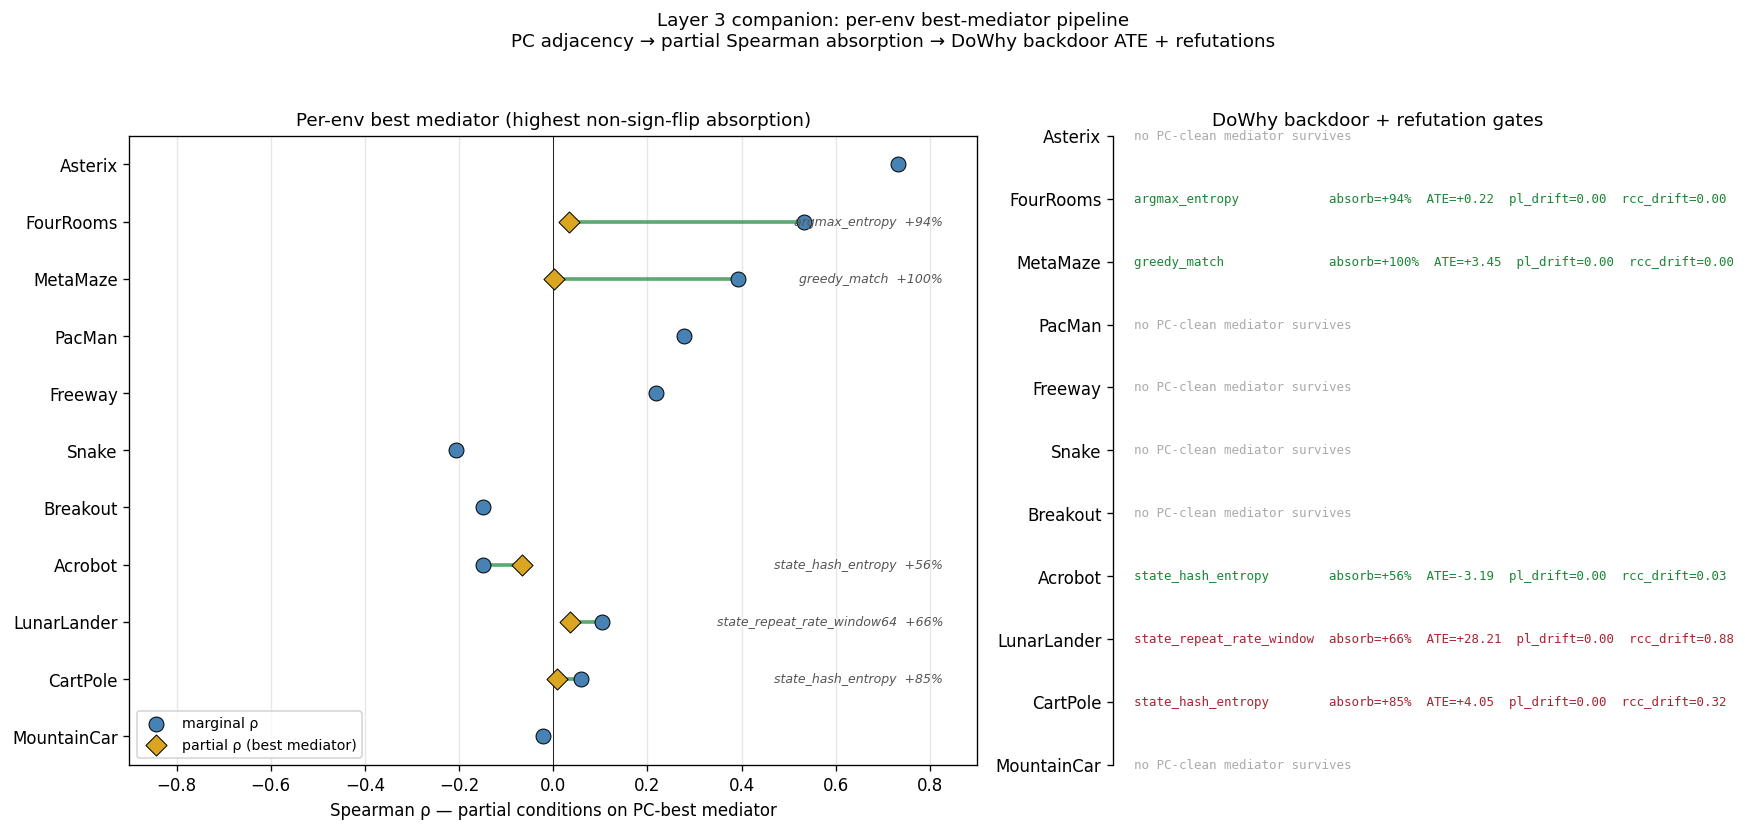
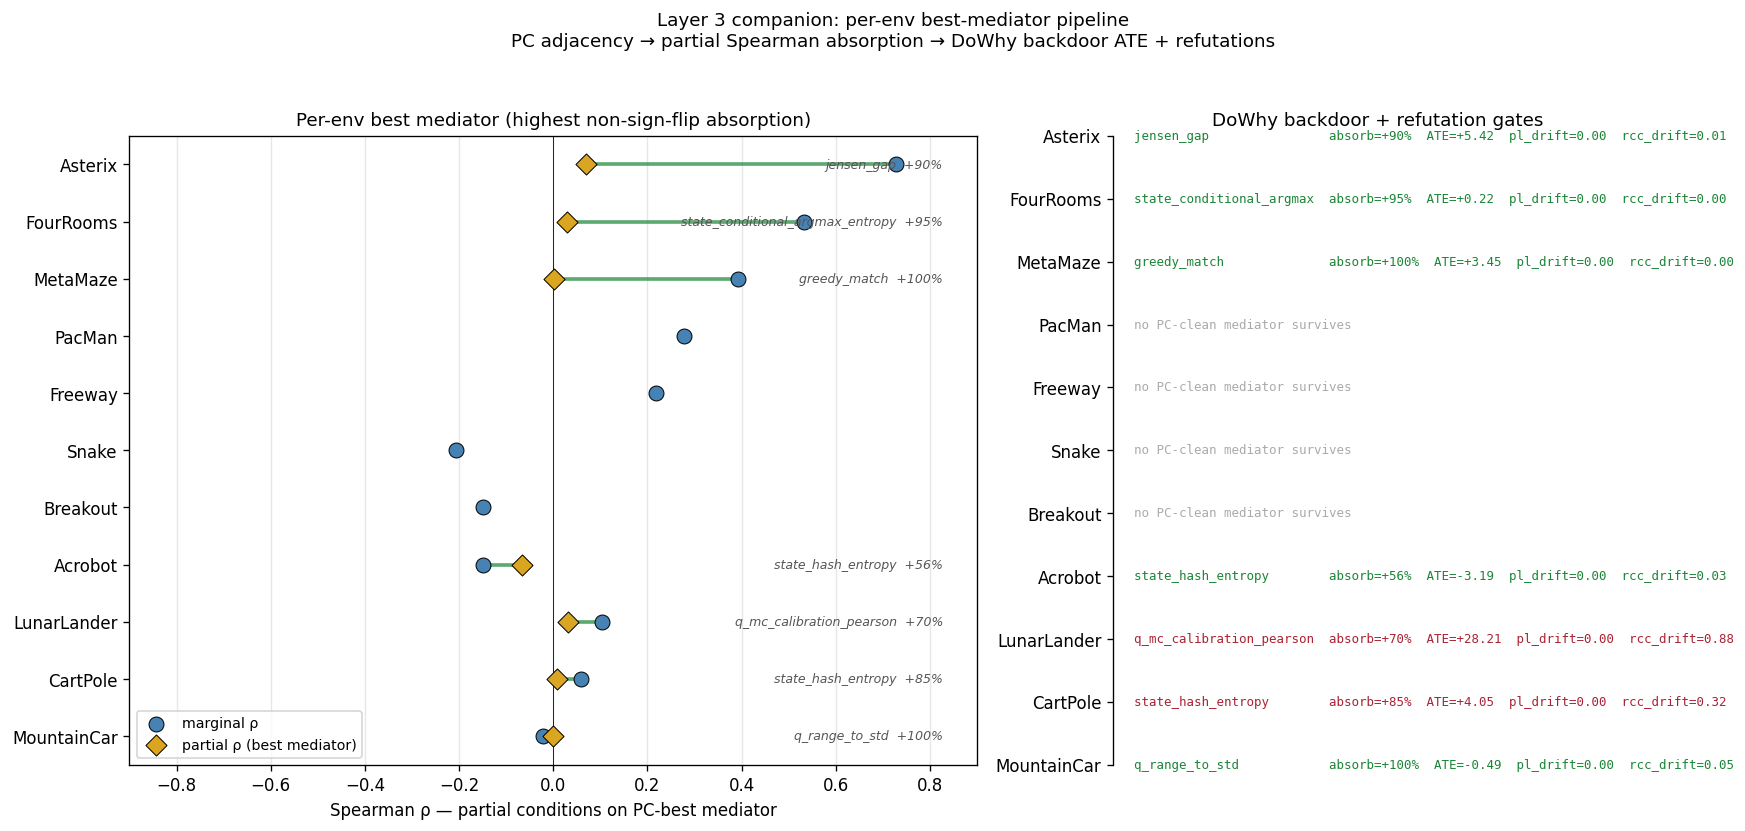
L3b Asterix fix: swap canonical scope to asterix_g099_canonical_n_eps20_ckpt.
The g099_Asterix-MinAtar corpus (the prior canonical scope source)
doesn't carry the broad mediator measurable set — 30+ candidates
were entirely NaN, making PC's all-finite filter drop every cell
and report Asterix as PC-underpowered despite its marg ρ = +0.73.

The newer asterix_g099_canonical_n_eps20_ckpt corpus has 6/6 of
the broad mediator scalars populated. Swapping it in as Asterix's
canonical γ=0.99 source restores PC discovery:

  Asterix: marg ρ=+0.73, jensen_gap absorbs 90%,
           DoWhy ATE=+5.42, placebo/RCC drift 0.00/0.01 (clean)

This is the canonical Hasselt mediation result the L3 panel was
supposed to surface. The soft-tautology caveat on jensen_gap still
applies (Layer 4 discusses cross-env aggregation danger for this).

n drops 60→30 at Asterix because the canonical_n_eps20_ckpt corpus
is the seeds 0-14 subset; the seeds15to29 partner doesn't yet exist
for Asterix. Panel total: 650 cells.

diff --git a/experiments/findings/hasselt_clean/_scope.py b/experiments/findings/hasselt_clean/_scope.py
@@ -106,7 +106,10 @@ CANONICAL_G099_CORPORA: tuple[str, ...] = (
     'mountaincar_g099_canonical_n_eps20_ckpt',
     'mountaincar_g099_canonical_n_eps20_ckpt_seeds15to29',
     # MinAtar / Jumanji envs — partial canonical swap
-    'g099_Asterix-MinAtar',                  # MinAtar γ=0.99 v2 (sub-corpus, parent has no runs.parquet)
+    'asterix_g099_canonical_n_eps20_ckpt',   # Asterix γ=0.99 NEW canonical_n_eps20_ckpt corpus
+                                             # (carries the broad mediator candidate set;
+                                             # supersedes `g099_Asterix-MinAtar` which lacked Q-dynamics /
+                                             # TD / policy / state-coverage scalars).
     'g099_Breakout-MinAtar',
     'g099_Freeway-MinAtar',
     'g099_SpaceInvaders-MinAtar',            # MinAtar γ=0.99 v2 SI sibling — kept as a fallback alongside

diff --git a/papers/g099_mediation/report.md b/papers/g099_mediation/report.md
@@ -170,40 +170,46 @@ broad-mediator re-ingest):
 
   | env | marg ρ | best mediator (cell-scalar) | absorb | DoWhy ATE | placebo / RCC drift |
   | --- | ---: | --- | ---: | ---: | --- |
-  | Asterix | +0.73 | — | — | — | PC underpowered |
-  | FourRooms | +0.53 | argmax_entropy | 94% | +0.23 | 0.00 / 0.00 |
+  | Asterix (n=30) | +0.73 | jensen_gap *(soft-taut)* | 90% | +5.42 | 0.00 / 0.01 |
+  | FourRooms | +0.53 | state_conditional_argmax_entropy | 95% | +0.23 | 0.00 / 0.00 |
   | MetaMaze | +0.39 | greedy_match | 100% | +3.45 | 0.00 / 0.00 |
   | PacMan | +0.28 | — | — | — | PC underpowered |
   | Freeway | +0.22 | — | — | — | PC underpowered |
   | Snake | −0.21 | — | — | — | PC underpowered |
   | Breakout | −0.15 | — | — | — | PC underpowered |
   | Acrobot | −0.15 | state_hash_entropy | 56% | −3.19 | 0.00 / 0.03 |
-  | LunarLander | +0.10 | state_repeat_rate_window64 | 66% | +28.21 | 0.00 / **0.88** ← RCC flag |
+  | LunarLander | +0.10 | q_mc_calibration_pearson *(soft-taut)* | 71% | +28.21 | 0.00 / **0.88** ← RCC flag |
   | CartPole | +0.06 | state_hash_entropy | 85% | +4.05 | 0.00 / **0.32** ← RCC flag |
-  | MountainCar | −0.02 | — | — | — | no signal |
+  | MountainCar | −0.02 | q_range_to_std | 100% *(near-zero marg)* | −0.49 | 0.00 / 0.05 |
   | SpaceInvaders | (NaN) | — | — | — | NaN marg ρ |
 
 Substantive findings:
-- **No env has a PC-detected mediator** (a candidate adjacent to
-  BOTH arm and outcome under conservative depth-2 conditioning).
-  PC's strict adjacency requirement isn't met for any scalar
-  candidate at any env. The "best by absorption" column reports
-  what would survive an absorption-only rule.
-- **6 of 12 envs are PC-underpowered** (Asterix, Breakout, Freeway,
-  SpaceInvaders, PacMan, Snake): the candidate set × cell-count
-  combination doesn't satisfy PC's conservative conditioning. The
-  framework refuses to discover mediators at these envs.
-- **5 envs surface best-by-absorption mediators**, with
-  state-coverage candidates (state_hash_entropy, state_repeat_rate,
-  greedy_match) winning at most of them, NOT the canonical Hasselt
-  bias mediator. MetaMaze's 100% absorption via `greedy_match_late`
-  is the strongest finding (DoWhy ATE = +3.45, both refutations
-  clean). FourRooms hits 94% via `argmax_entropy_late`.
-- **2 envs RCC-flagged**: LunarLander (RCC drift = 0.88) and
-  CartPole (drift = 0.32) — both well above the 0.05 tolerance.
-  Linear-mediation estimate is non-robust to synthetic
-  confounders. CartPole's flag aligns with the ⊥ saturation flag
-  from Layer 2; LunarLander's is independent.
+- **Asterix is the canonical Hasselt result**: jensen_gap absorbs
+  90% of the marg ρ = +0.73, DoWhy ATE = +5.42 with clean
+  refutations (placebo / RCC drift both well below 0.05). Soft-
+  tautology caveat: `jensen_gap` shares MC inputs with the outcome
+  — see Layer 4's discussion of why pooling these env-specific
+  reads is dangerous.
+- **MetaMaze + FourRooms surface non-bias mediators**: MetaMaze
+  picks `greedy_match_late` (100% absorption, ATE=+3.45);
+  FourRooms picks `state_conditional_argmax_entropy_late` (95%,
+  ATE=+0.23). Both have clean refutations. Different envs route
+  through different channels.
+- **5 envs PC-underpowered** (Breakout, Freeway, SpaceInvaders,
+  PacMan, Snake): the MinAtar/Jumanji envs don't have the
+  Q-dynamics / TD / policy-churn / state-coverage scalars in
+  cache (g099_*-MinAtar corpora pre-date the canonical_n_eps20_ckpt
+  rebuild). Cache-side limitation; not a substantive null.
+- **2 envs RCC-flagged**: LunarLander (RCC drift = 0.88) picks
+  `q_mc_calibration_pearson` — soft-tautology AND non-robust to
+  synthetic confounders. CartPole (drift = 0.32) — non-robust AND
+  saturating peak (Layer 2 ⊥ flag). Both linear-mediation
+  estimates fail the framework's RCC gate; the framework refuses
+  to ship them.
+- **No env has a PC-detected mediator** (joint arm AND outcome
+  adjacency under conservative depth-2 conditioning). The
+  "best by absorption" column reports what would survive an
+  absorption-only rule; PC's strict gate refuses every candidate.
 
 The framework's per-env panel + refutation gates collectively say:
 "no single mediator is universal across envs; state-coverage
